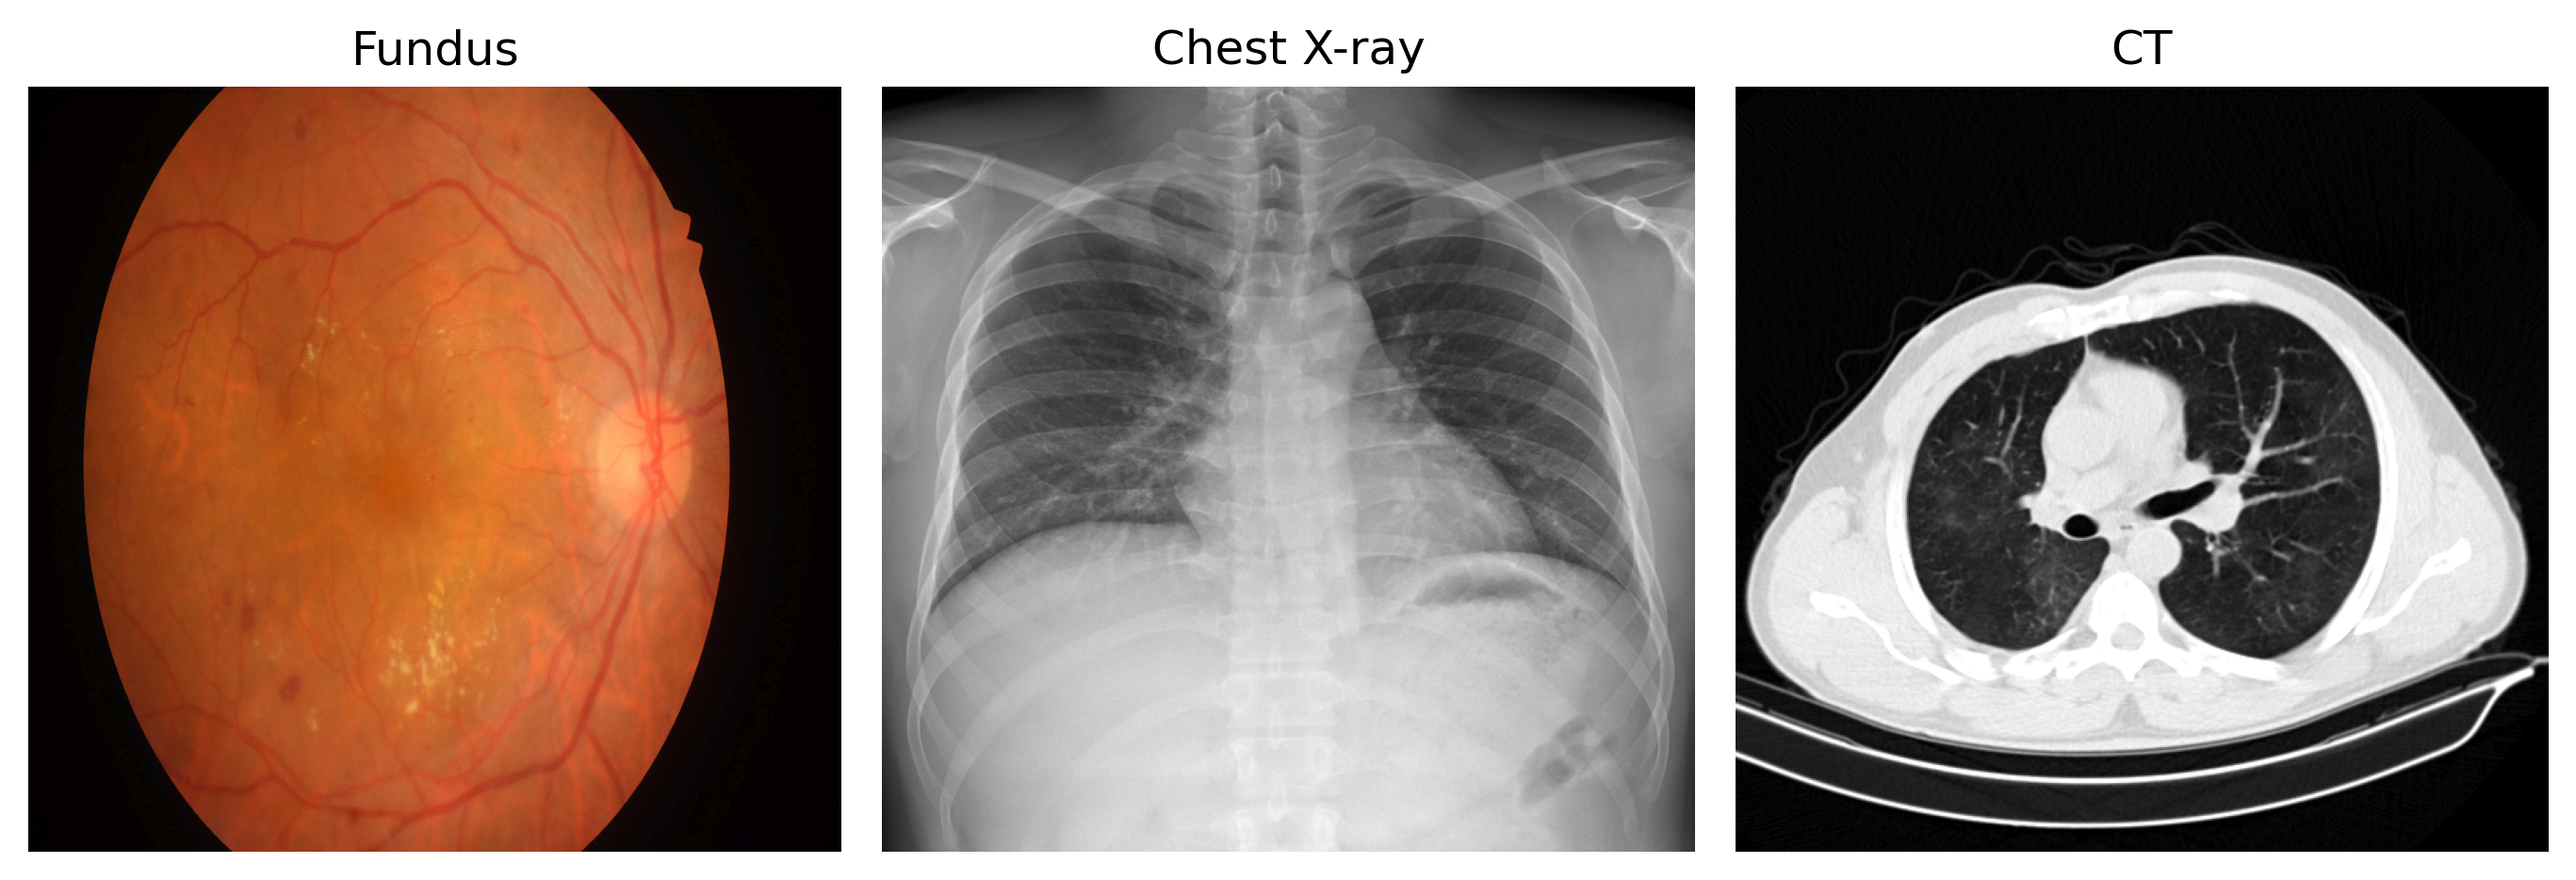
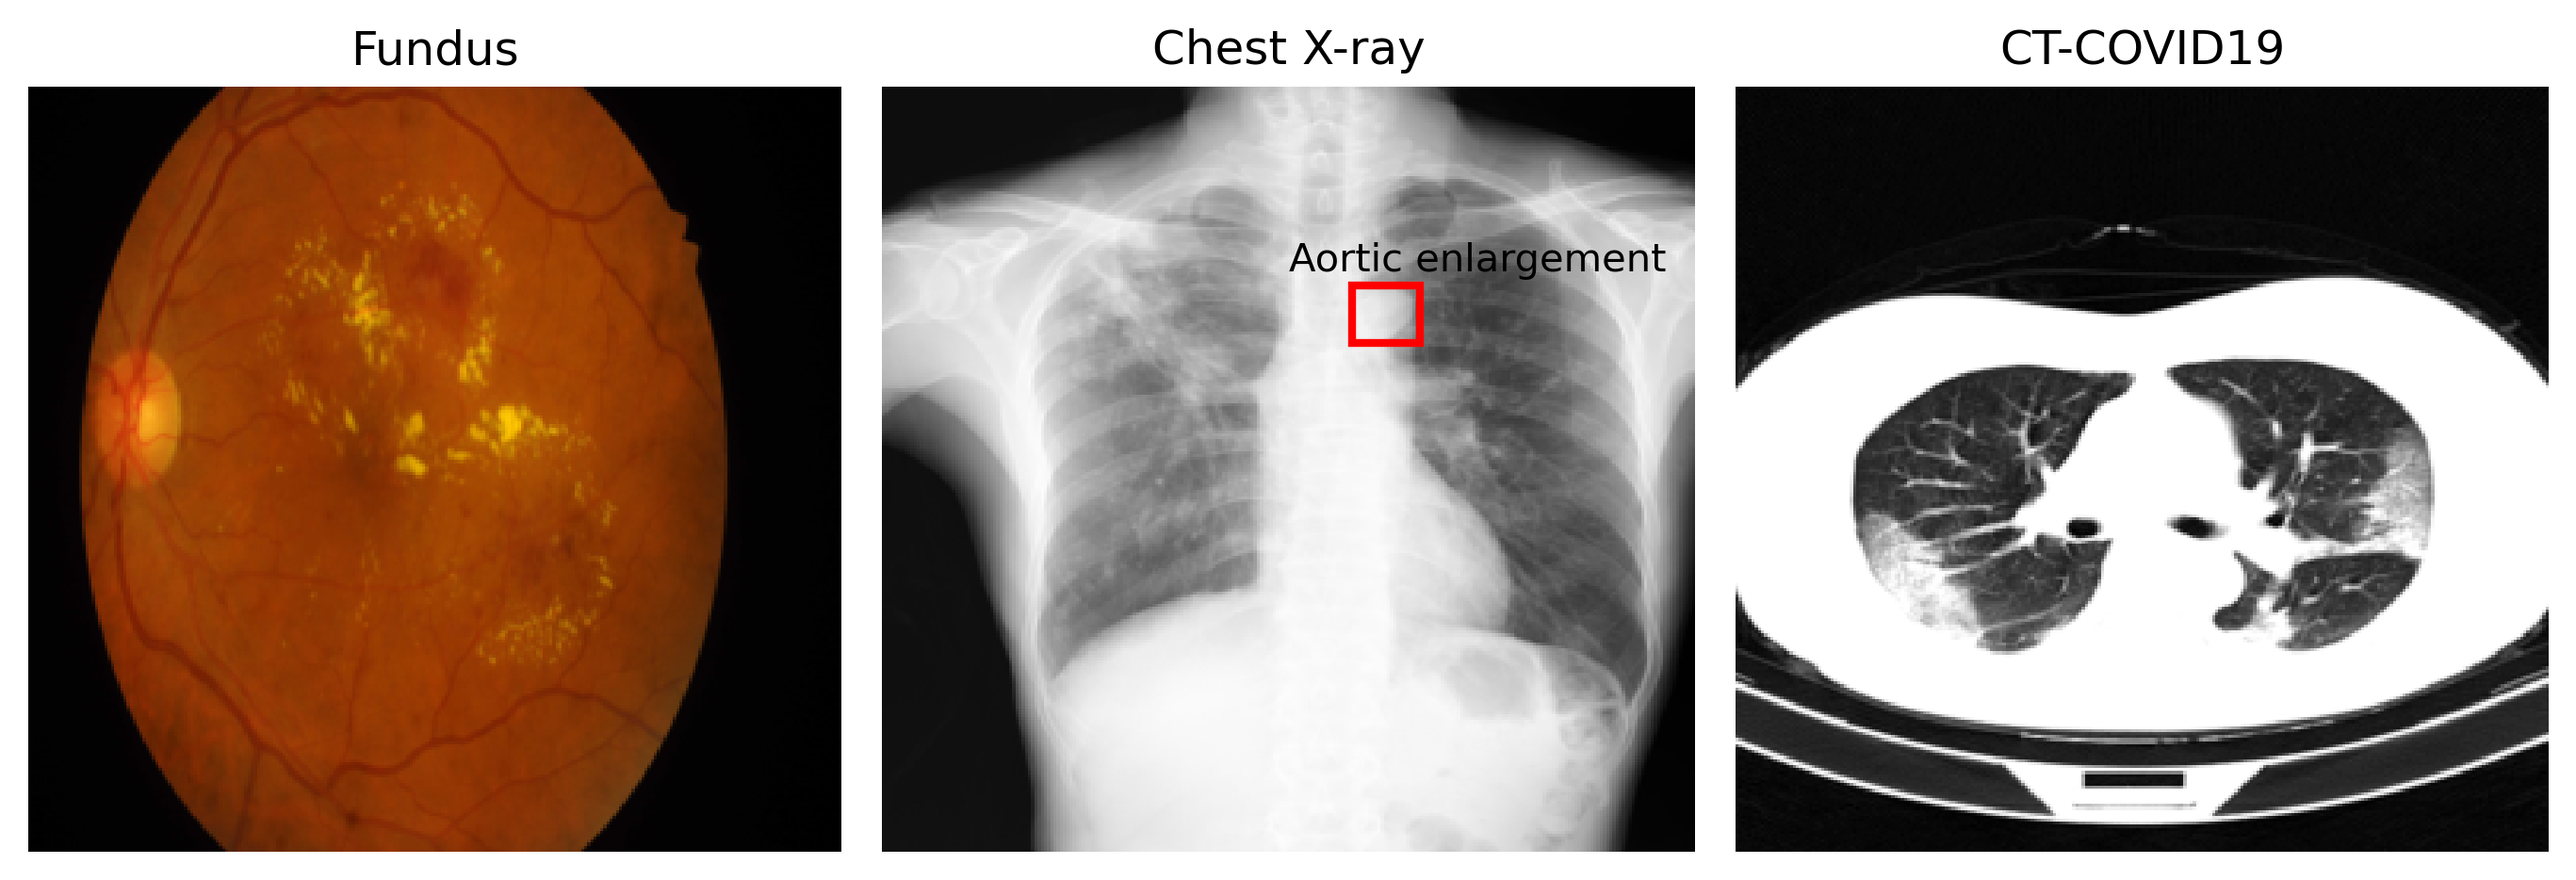
fjs

diff --git a/dsts/medimg_plot.py b/dsts/medimg_plot.py
@@ -1,0 +1,116 @@
+# encoding: utf-8
+"""
+Training implementation of object detection for 2D chest x-ray
+Author: Jason.Fang
+Update time: 06/09/2021
+"""
+import re
+import sys
+import os
+import cv2
+import time
+import argparse
+import numpy as np
+import pandas as pd
+import torch
+import math
+import torch.nn as nn
+from torch.optim import lr_scheduler
+import torch.optim as optim
+import torchvision
+from torchvision.models.detection import FasterRCNN
+from torchvision.models.detection.rpn import AnchorGenerator
+import torchvision.transforms as transforms
+from tensorboardX import SummaryWriter
+from thop import profile
+from sklearn.metrics import roc_auc_score
+import matplotlib.pyplot as plt
+from PIL import Image
+import matplotlib.patches as patches
+import cv2
+import seaborn as sns
+import torchvision.datasets as dset
+import matplotlib.image as mpimg
+from sklearn.metrics import roc_auc_score
+from sklearn.metrics import roc_curve, auc
+from sklearn.metrics import confusion_matrix
+#sys.path.append("..") 
+from vincxr_det import get_box_dataloader_VIN
+from fundus_seg import get_test_dataloader
+from COVIDx_ct import get_dataloader_test
+
+def vis_med_img():
+
+    fig, axes = plt.subplots(1,3,constrained_layout=True, figsize=(9,3))
+
+    print('********************Fundus image********************')
+    fundus_data = get_test_dataloader(batch_size=1, shuffle=False, num_workers=0) 
+    with torch.autograd.no_grad():
+        for batch_idx, (image, mask) in enumerate(fundus_data):
+                img = image.squeeze().numpy().transpose(1,2,0)
+                #msk = mask.numpy().repeat(3, axis=0).transpose(1,2,0)
+                #img =  img + msk
+                #img = np.where(img>1, 1, img)
+                axes[0].imshow(img, aspect="auto")
+                axes[0].axis('off')
+                axes[0].set_title('Fundus')
+                break
+
+    print('********************Chest X-ray********************')
+    cxr_data = get_box_dataloader_VIN(batch_size=1, shuffle=False, num_workers=0)
+    CLASS_NAMES_Vin = ['No Finding', 'Aortic enlargement', 'Atelectasis', 'Calcification','Cardiomegaly', 'Consolidation', 'ILD', 'Infiltration', \
+        'Lung Opacity', 'Nodule/Mass', 'Other lesion', 'Pleural effusion', 'Pleural thickening', 'Pneumothorax', 'Pulmonary fibrosis']
+    with torch.autograd.no_grad():
+        for batch_idx, (images, targets) in enumerate(cxr_data):
+            img = images[0]
+            box = targets[0]['boxes'][0]
+            lbl = targets[0]['labels'][0]
+            #plot goundtruth box
+            img = img.cpu().numpy().transpose(1,2,0)
+            axes[1].imshow(img, aspect="auto")
+            rect = patches.Rectangle((box[0], box[1]), box[2]-box[0], box[3]-box[1], linewidth=2, edgecolor='r', facecolor='none')
+            axes[1].add_patch(rect)# add groundtruth
+            axes[1].text(box[0]-20, box[1]-5, CLASS_NAMES_Vin[lbl])
+            axes[1].axis('off')
+            axes[1].set_title('Chest X-ray')
+            break
+
+    print('********************CT********************')
+    ct_data = get_dataloader_test(batch_size=1, shuffle=False, num_workers=0)
+    with torch.autograd.no_grad():
+        for batch_idx,  (img, lbl) in enumerate(ct_data):
+            if list(lbl[0].numpy()).index(1) == 2: #COVID19
+                img = img.squeeze(0).numpy().transpose(1,2,0)
+                axes[2].imshow(img, aspect="auto",cmap='gray')
+                axes[2].axis('off')
+                axes[2].set_title('CT-COVID19')
+                break
+    fig.savefig('/data/pycode/SFConv/imgs/med_img.png', dpi=300, bbox_inches='tight')
+
+
+    """
+    fig, axes = plt.subplots(1,3,constrained_layout=True) #figsize=(9,3)
+
+    fundus = Image.open('/data/pycode/SFConv/imgs/ctpred/fundus_seg.jpg')
+    axes[0].imshow(fundus, aspect="auto")
+    axes[0].axis('off')
+    axes[0].set_title('Fundus')
+
+    cxr = Image.open('/data/pycode/SFConv/imgs/ctpred/cxr_det.jpg')
+    axes[1].imshow(cxr,aspect="auto")
+    axes[1].axis('off')
+    axes[1].set_title('Chest X-ray')
+
+    ct = Image.open('/data/pycode/SFConv/imgs/ctpred/ct.png')
+    axes[2].imshow(ct,cmap='gray',aspect="auto")
+    axes[2].axis('off')
+    axes[2].set_title('CT')
+
+    fig.savefig('/data/pycode/SFConv/imgs/med_img.png', dpi=300, bbox_inches='tight')
+    """
+
+def main():
+    vis_med_img()
+
+if __name__ == '__main__':
+    main()
